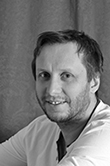
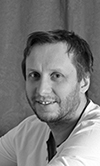
Align of pictures and about us reformated

diff --git a/resources/views/bachelor.blade.php b/resources/views/bachelor.blade.php
@@ -27,15 +27,15 @@
                     </p>
                     <div class="second-p-paragraph">
                         <span class="bachelor-span">{{ trans('about.art_director_name') }}</span>
-                        <span class="picspan"> {!! HTML::image('img/scholarships/konstantin valchev_patron.jpg') !!}</span><br><br>
+                        <span class="picspan"> {!! HTML::image('img/scholarships/konstantin_valchev_patron.jpg') !!}</span><br><br>
                         <span class="bachelor-span">{{ trans('scholarship.lilia_baleva') }}</span>
-                        <span class="picspan"> {!! HTML::image('img/scholarships/liliabaleva.jpg') !!}</span><br><br>
+                        <span class="picspan"> {!! HTML::image('img/scholarships/liliabaleva1.jpg') !!}</span><br><br>
                         <span class="bachelor-span">{{ trans('scholarship.vladimir_dimitrov') }}</span>
-                        <span class="picspan"> {!! HTML::image('img/images.png') !!}</span><br><br>
+                        <span class="picspan"> {!! HTML::image('img/scholarships/vlad_dimitrov1.jpg') !!}</span><br><br>
                         <span class="bachelor-span">{{ trans('about.alex') }}</span>
-                        <span class="picspan"> {!! HTML::image('img/scholarships/alexandra veleva2.jpg') !!}</span><br><br>
+                        <span class="picspan"> {!! HTML::image('img/scholarships/alexandra_veleva.jpg') !!}</span><br><br>
                         <span class="bachelor-span">{{ trans('about.sofia') }}</span>
-                        <span class="picspan"> {!! HTML::image('img/images.png') !!}</span><br><br>
+                        <span class="picspan"> {!! HTML::image('img/scholarships/sofia.jpg') !!}</span><br><br>
                     </div>
                     <div class="second-p-paragraph">
                       <!--  <span class="bachelor-span">Маритин Иванов<br><span class="full-scholarship">пълна стипендия</span></span>

diff --git a/resources/views/master.blade.php b/resources/views/master.blade.php
@@ -27,9 +27,9 @@
                 </p>
                 <div class="second-p-paragraph">
                     <span class="bachelor-span">{{ trans('about.art_director_name') }}</span>
-                    <span class="picspan">{!! HTML::image('img/scholarships/konstantin valchev_patron.jpg') !!}</span><br><br>
+                    <span class="picspan">{!! HTML::image('img/scholarships/konstantin_valchev_patron.jpg') !!}</span><br><br>
                     <span class="bachelor-span">{{ trans('about.zdenek_lhodski') }}</span>
-                    <span class="picspan">{!! HTML::image('img/scholarships/zdenek-lhotsky.jpg') !!}</span><br><br>
+                    <span class="picspan">{!! HTML::image('img/scholarships/zdenek-lhotsky1.jpg') !!}</span><br><br>
                     <span class="bachelor-span">{{ trans('about.dana_zzamechnikova') }}</span>
                     <span class="picspan">{!! HTML::image('img/scholarships/zamecnikova2.jpg') !!}</span><br><br>
                     <span class="bachelor-span">{{ trans('about.milan_krajek') }}</span>

diff --git a/resources/views/phd.blade.php b/resources/views/phd.blade.php
@@ -29,7 +29,7 @@
                         <span class="bachelor-span">{{ trans('about.art_director_name') }}</span>
                         <span class="picspan"> {!! HTML::image('img/scholarships/konstantin valchev_patron.jpg') !!}</span><br><br>
                         <span class="bachelor-span">{{ trans('about.zdenek_lhodski') }}</span>
-                        <span class="picspan"> {!! HTML::image('img/scholarships/zdenek-lhotsky.jpg') !!}</span><br><br>
+                        <span class="picspan"> {!! HTML::image('img/scholarships/zdenek-lhotsky1.jpg') !!}</span><br><br>
                         <span class="bachelor-span">{{ trans('about.dana_zzamechnikova') }}</span>
                         <span class="picspan">  {!! HTML::image('img/scholarships/zamecnikova2.jpg') !!}</span><br><br>
                         <span class="bachelor-span">{{ trans('about.milan_krajek') }}</span>
